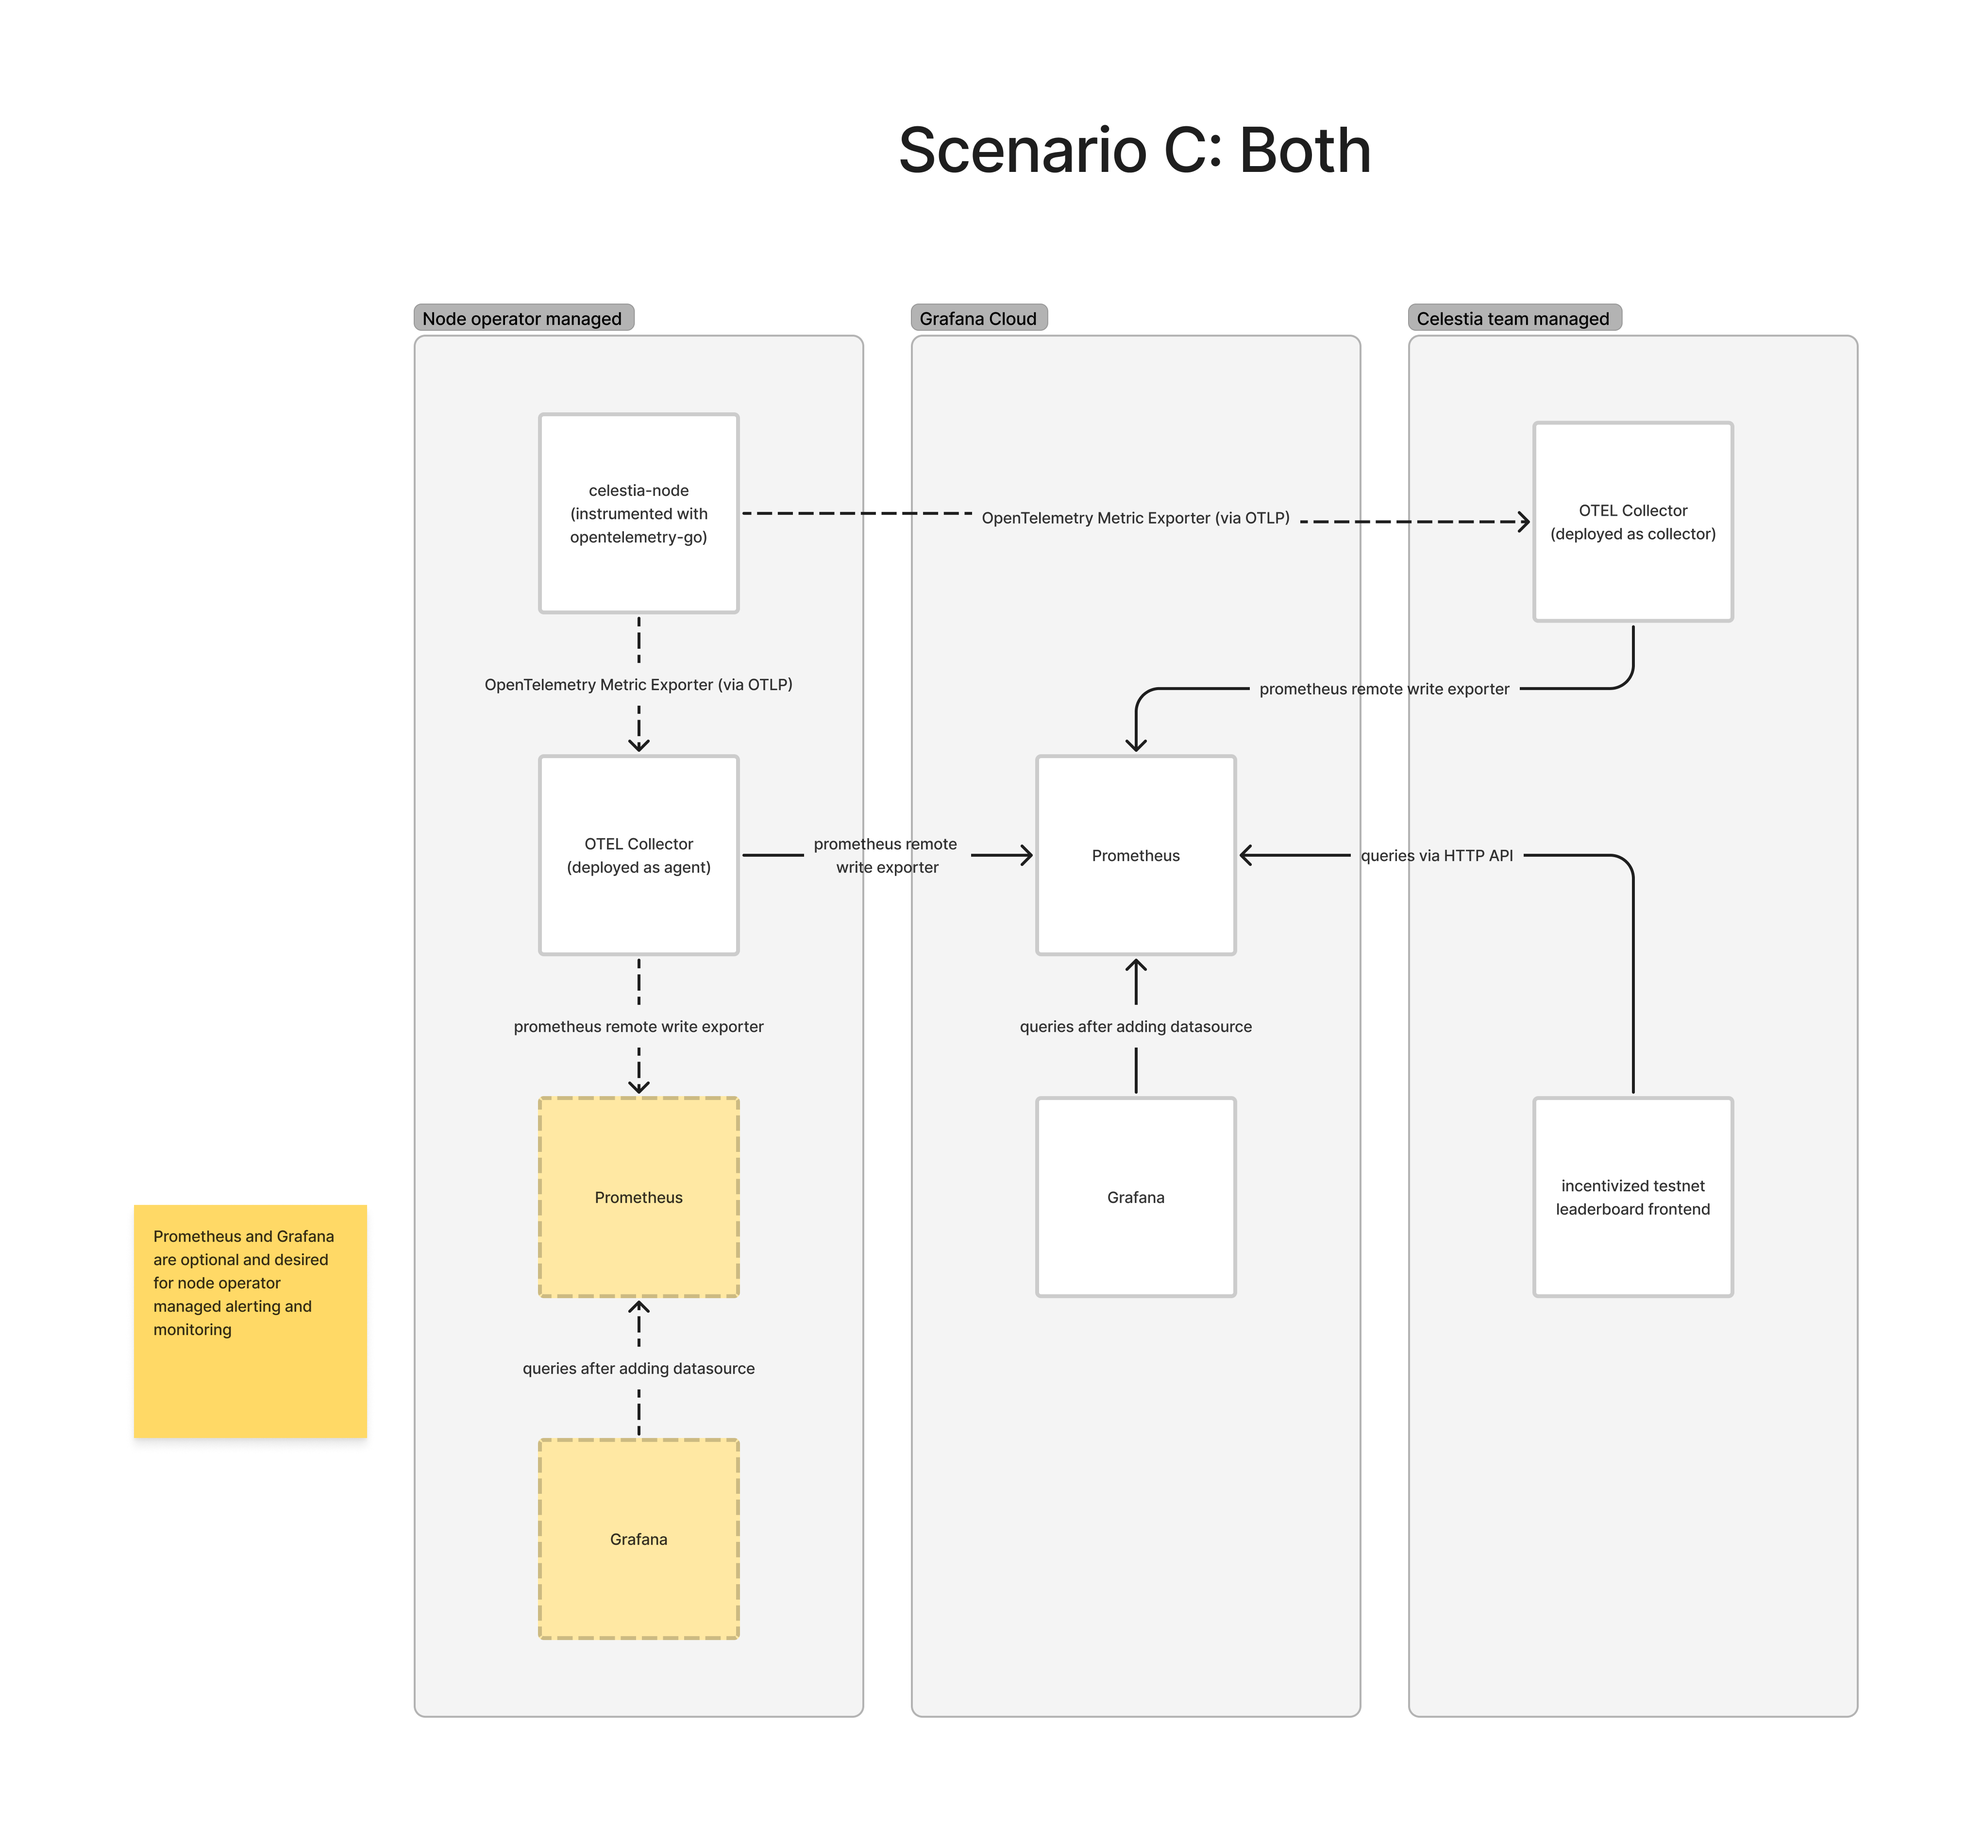
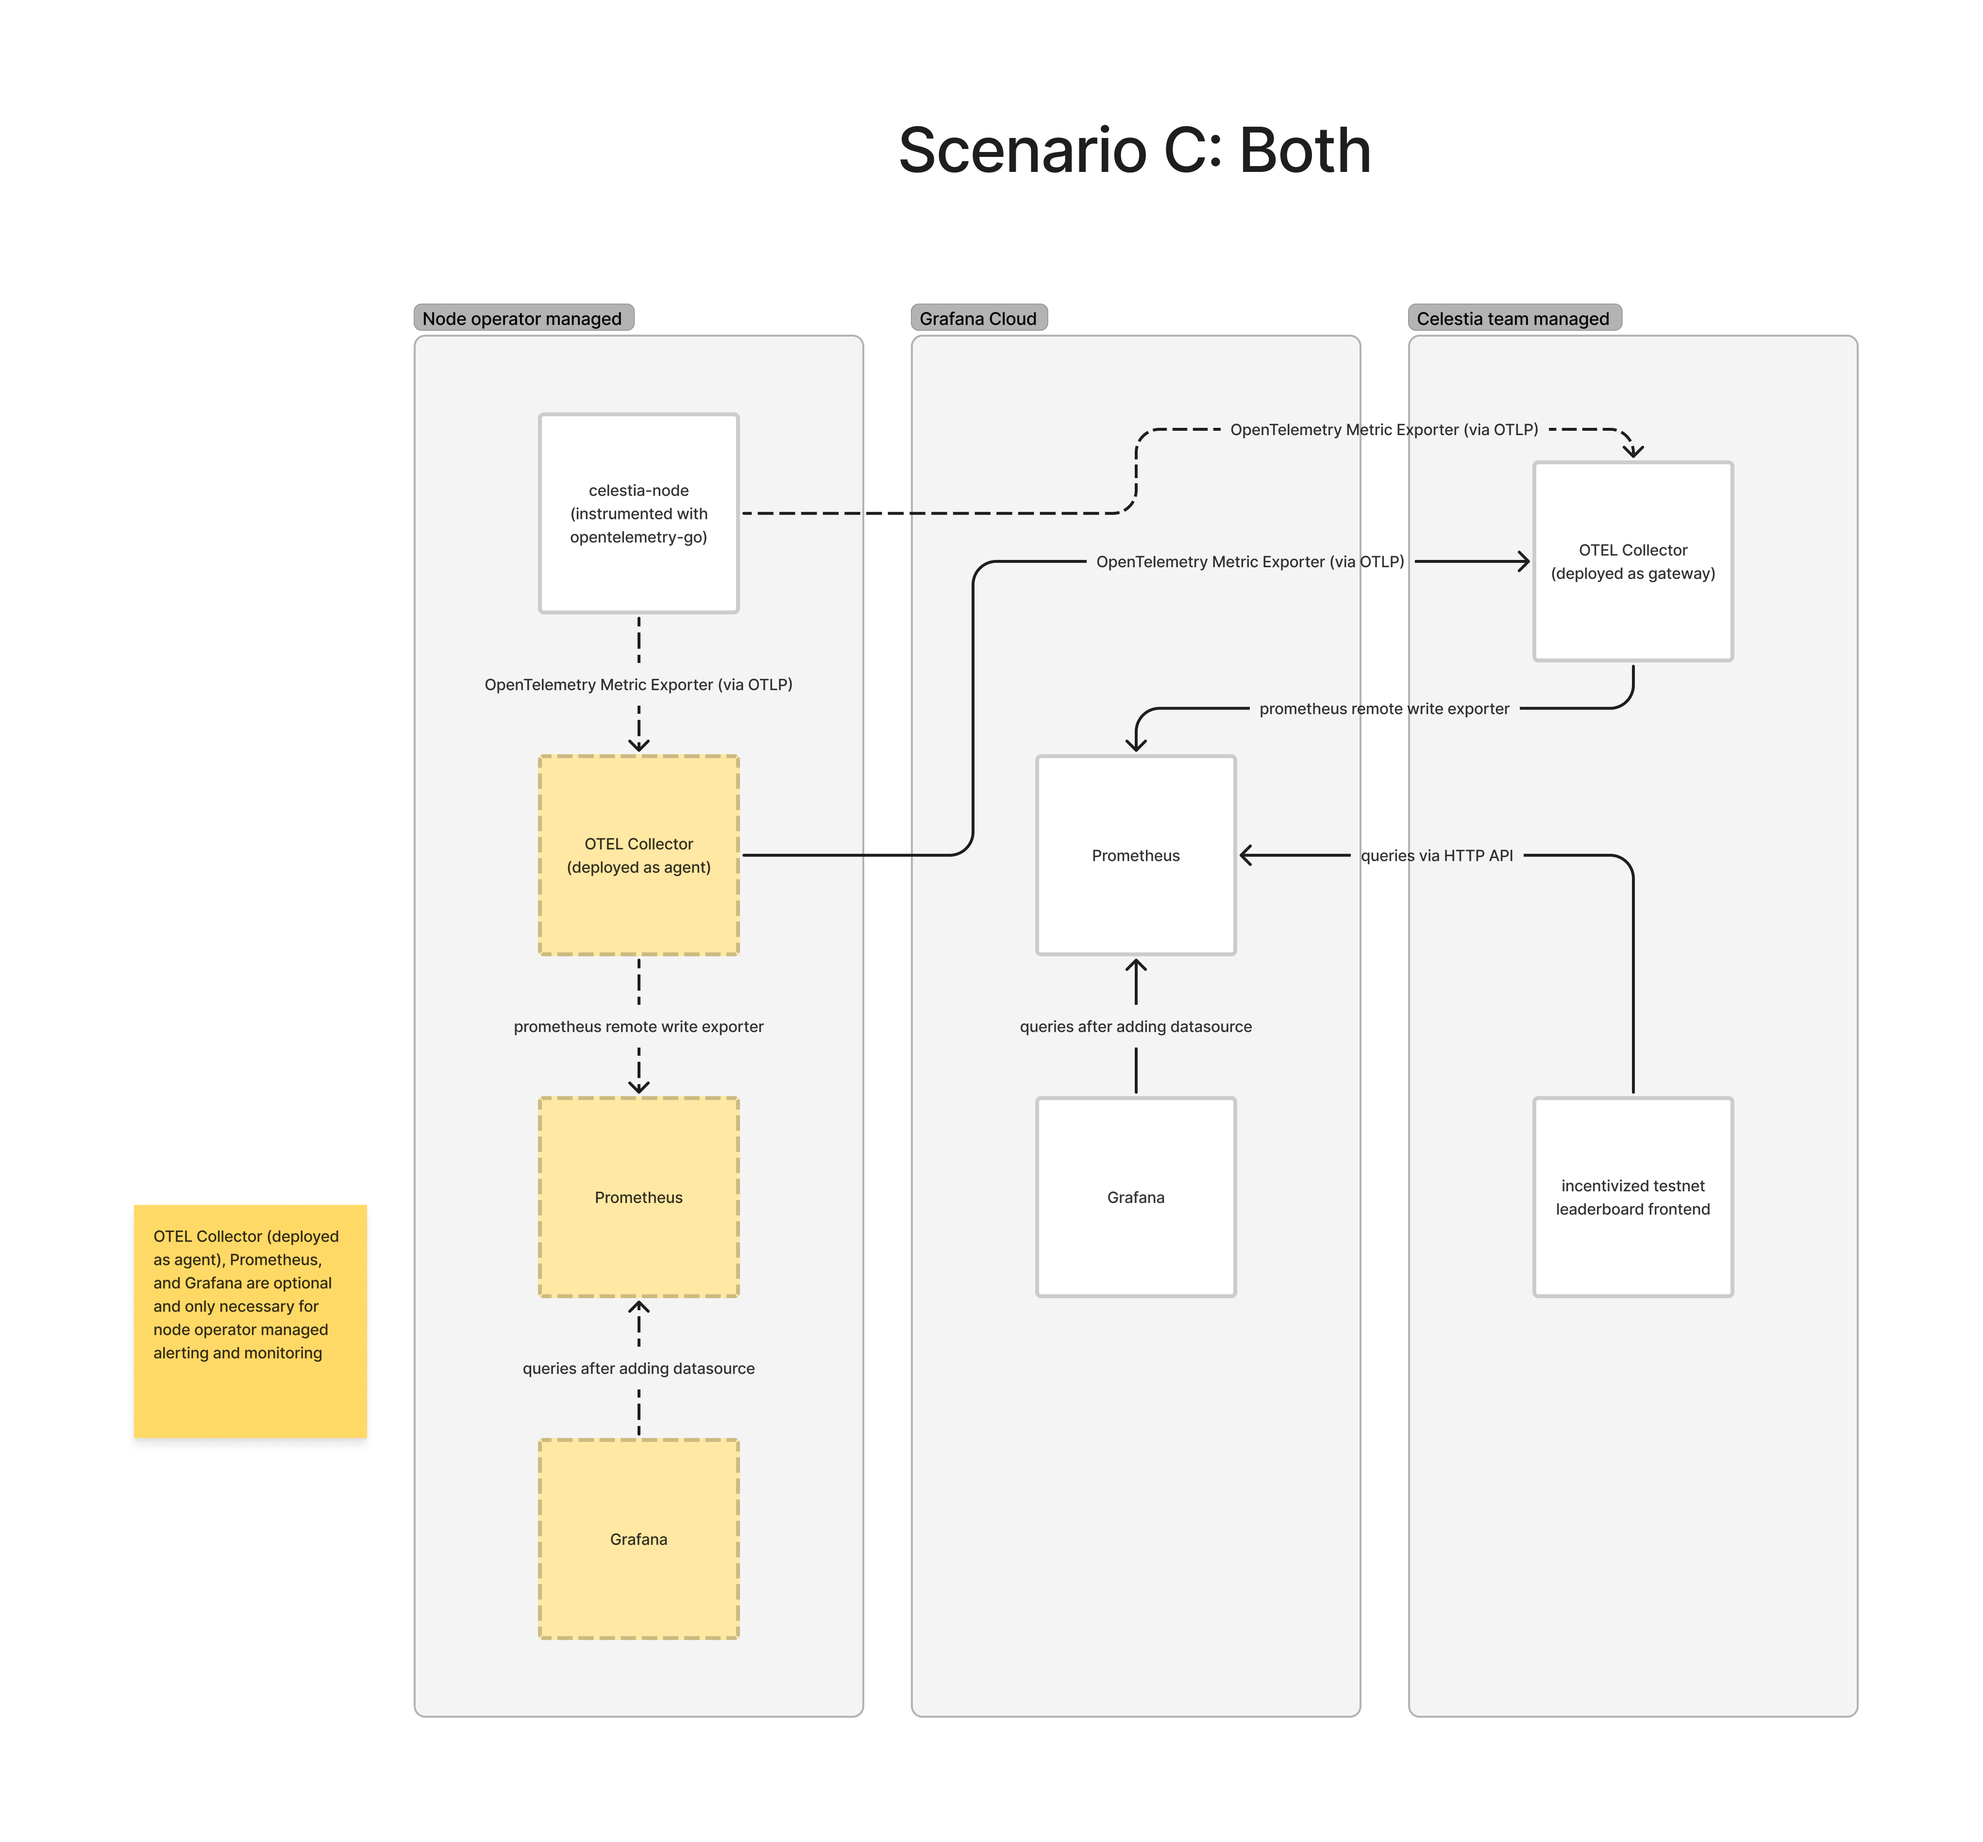
update diagrams, add scenario D, address hlib feedback

diff --git a/docs/adr/adr-010-incentivized-testnet-monitoring.md b/docs/adr/adr-010-incentivized-testnet-monitoring.md
@@ -16,15 +16,9 @@ We're adding telemetry to celestia-node by instrumenting our codebase with metri
 
 We would like to make the metrics exported by celestia-node actionable by making them queryable in internal Grafana dashboards. We additionally want a subset of metrics to be queryable by a public incentivized testnet leaderboard frontend.
 
-We would like to make it possible for node operators to monitor their own nodes with existing telemetry tools (e.g. Grafana and Uptrace). They can achieve this by deploying and configuring an OTEL Collector instance.
+We would like to make it possible for node operators to monitor their own nodes with existing telemetry tools (e.g. Grafana and Uptrace).
 
-This document proposes a strategy for making data available for use in internal Grafana dashboards and a public leaderboard. Additionally it describes how a node operator can configure their OTEL Collector instance.
-
-## Proposed Architecture
-
-We expect celestia-node operators to deploy an OTEL Collector agent alongside celestia-node during the incentivized testnet and export metrics to a Prometheus instance hosted in Grafana Cloud. We will share a Prometheus endpoint and API keys when this infrastructure is available.
-
-![incentivized testnet monitoring diagram](./img/incentivized-testnet-monitoring-diagram.png)
+This document proposes a strategy for making data available for use in internal Grafana dashboards and a public leaderboard. Additionally it describes how a node operator can deploy and configure their own OTEL Collector instance.
 
 ## Detailed Design
 
@@ -154,11 +148,11 @@ Node operators have the option of adding an additional exporter to their OTEL Co
 
 ### Should we host a Prometheus instance ourselves or use a hosted provider?
 
-We currently host a Prometheus instance on DigitalOcean (host mamaki-prometheus) for development. However, cloud hosted Prometheus providers take on the responsibility of running, upgrading, and scaling a Prometheus instance for us (see [oss-vs-cloud](https://grafana.com/oss-vs-cloud/). Although multiple hosted providers exist, we propose using Grafana Cloud's hosted Prometheus for the incentivized testnet.
+We currently host a Prometheus instance on DigitalOcean (host mamaki-prometheus) for development. However, cloud hosted Prometheus providers take on the responsibility of running, upgrading, and scaling a Prometheus instance for us (see [oss-vs-cloud](https://grafana.com/oss-vs-cloud/). Although multiple hosted providers exist, we propose using Grafana Cloud's hosted Prometheus at this time.
 
 ### Should we host a Grafana instance ourselves or use a hosted provider?
 
-We already host a Grafana instance on DigitalOcean (host mamaki-prometheus). We propose using Grafana Cloud's hosted Grafana for the incentivized testnet due to it's tight integration with Grafana Cloud Prometheus.
+We already host a Grafana instance on DigitalOcean (host mamaki-prometheus). We propose using Grafana Cloud's hosted Grafana at this time due to it's tight integration with Grafana Cloud Prometheus.
 
 ### Should we host separate Prometheus instances per use case? I.e. one for internal dashboards and one for public leaderboard?
 
@@ -176,7 +170,7 @@ So if we are concerned about the public leaderboard crashing the Prometheus inst
 
 Pros
 
-- This deployment architecture is more representative of mainnet where node operators will run their own telemetry stack to monitor their node. Exposing node operators to OTEL Collector during incentivized testnet allows them to practice this deployment architecture prior to mainnet.
+- This deployment architecture is more representative of mainnet where full storage node operators will run their own telemetry stack to monitor their node. Exposing node operators to OTEL Collector during incentivized testnet allows them to practice this deployment architecture during incentivized testnet prior to mainnet.
 - Node operators will have an "incentive" to maintain high uptime for their OTEL Collector.
 
 Cons
@@ -193,14 +187,9 @@ Pros
 
 Cons
 
-- Node operators will lose the ability to monitor their own celestia-node. Since opentelemetry-go supports configuring only one exporter ( [open-telemetry/opentelemetry-go#3055](https://github.com/open-telemetry/opentelemetry-go/issues/3055)), if node operators were obligated to export metrics to a Celestia team managed OTEL Collector endpoint, they wouldn't be able to export to their own OTEL Collector (and by proxy any telemetry platforms they wish to use). This violates the desideratum:
+- At this time, there are no cloud managed offerings for OTEL Collector. There is minimal documentation on the scale of workload an individual OTEL Collector can handle. We'd have to design and operate a highly available OTEL Collector fleet to maintain high uptime for node operators. We'd also have to mitigate DDOS attacks against our OTEL Collector endpoint (cursory investigation below).
 
-    > We would like to make it possible for node operators to monitor their own nodes with existing telemetry tools (e.g. Grafana and Uptrace)
-
-- If the Celestia team took on this responsibility and failed to provide a highly available solution, then node operators would be penalized for downtime of a component they have no control over.
-- We expect 1500+ node operators during the incentivized testnet and there is minimal documentation on the scale of workload an individual OTEL Collector can handle. We'd have to design and operate a best-effort highly available OTEL Collector fleet to maintain high uptime for node operators. At this time no cloud managed offerings for OTEL Collector exist.
-
-#### Scenario C: Both. Node operators by default and Celestia team as a best-effort fallback
+#### Scenario C: Node operators by default and Celestia team as a fallback
 
 ![scenario c](./img/incentivized-testnet-monitoring-scenario-c.png)
 
@@ -208,14 +197,33 @@ Pros
 
 - Optionality for node operators who don't want to deploy an OTEL Collector to rely on a best-effort OTEL Collector provided by Celestia team.
 
-Cons:
+Cons
 
 - This option increases the cognitive load on node operators who now have an additional decision at deployment time.
 - Increased operational burden on Celestia team during incentivized testnet (and beyond).
 
+#### Scenario D: Celestia team by default and node operators if they want
+
+The diagram, pros, and cons are the same as scenario C.
+
+This scenario differs from Scenario C in the docs for node deployment. The docs specify a Celestia team managed OTEL Collector endpoint by default. For node operators who want self-managed telemetry, the docs contain steps on how to setup a node operator managed agent OTEL Collector and how to proxy metrics to the Celestia team managed gateway OTEL Collector.
+
+The docs may also contain steps on connecting the agent OTEL Collector to Prometheus and Grafana.
+
 ### Should node operators be able to configure celestia-node to export to multiple OTEL collectors?
 
-This is not supported by [open-telemetry/opentelemetry-go#3055](https://github.com/open-telemetry/opentelemetry-go/issues/3055) and is no longer a concern because we expect celestia-node operators to run their own OTEL Collector agent alongside celestia-node. Under this architecture, node operators are at liberty to configure multiple exporters in OTEL Collector and can therefore export to multiple OTEL collectors by routing traffic through their agent OTEL Collector.
+This is not supported by [open-telemetry/opentelemetry-go#3055](https://github.com/open-telemetry/opentelemetry-go/issues/3055). This means node operators can only configure one OTLP backend for their node. If they wish to export metrics to multiple OTEL Collectors then they must route traffic through an agent OTEL Collector that they have deployed. Their agent OTEL Collector can forward metrics to any other OTEL Collector that they have access to.
+
+### How to mitigate DDOS attacks against OTEL Collector?
+
+- [https://medium.com/opentelemetry/securing-your-opentelemetry-collector-1a4f9fa5bd6f](https://medium.com/opentelemetry/securing-your-opentelemetry-collector-1a4f9fa5bd6f)
+  - Uses an authentication server (Keycloak) to handle OAuth2 between service and remote OTEL Collector.
+- [https://medium.com/@michaelericksen_12434/securing-your-opentelemetry-collector-updated-3f9884e37a09](https://medium.com/@michaelericksen_12434/securing-your-opentelemetry-collector-updated-3f9884e37a09)
+  - Also uses authentication server (Keycloak). Runs services in Docker.
+
+### How to mitigate DDOS attacks against Prometheus?
+
+It’s possible to create an API key with the `MetricsPublisher` role on cloud hosted Prometheus. These API keys can be distributed to participants if they are expected to remote write to Prometheus.
 
 ### How to send data over HTTPS
 
@@ -270,8 +278,6 @@ In the case where a node operator wants to send data from celestia-node to an OT
 
 Official resource requirements are not stated in the OTEL Collector docs. However, [performance benchmarks](https://github.com/open-telemetry/opentelemetry-collector/blob/main/docs/performance.md#results-without-tail-based-sampling) indicate that OTEL Collector is able to handle up to 10K traces ([units unclear](https://github.com/open-telemetry/opentelemetry-collector/issues/5780)) on 1 CPU and 2GB RAM. Given [light node](https://docs.celestia.org/nodes/light-node#hardware-requirements) runs on 1 CPU and 2GB RAM, it seems feasible to run an OTEL Collector agent on the most resource constrained target hardware.
 
-During mainnet, we won't require nodes to share telemetry data so resource constrained devices won't be obligated to run an OTEL Collector agent indefinitely.
-
 ## Status
 
 Proposed
@@ -284,3 +290,4 @@ Proposed
 - <https://celestia-team.slack.com/archives/C03QAJVLHK3/p1658169362548589>
 - <https://www.notion.so/celestiaorg/Telemetry-Dashboard-d85550a3caee4004b00a2e3bf82619b1>
 - <https://www.notion.so/celestiaorg/TLS-for-telemetry-6ce8e321616140a6be64ed27e99dc791>
+- <https://lightstep.com/opentelemetry/collecting-and-exporting-data#opentelemetry-collector>
